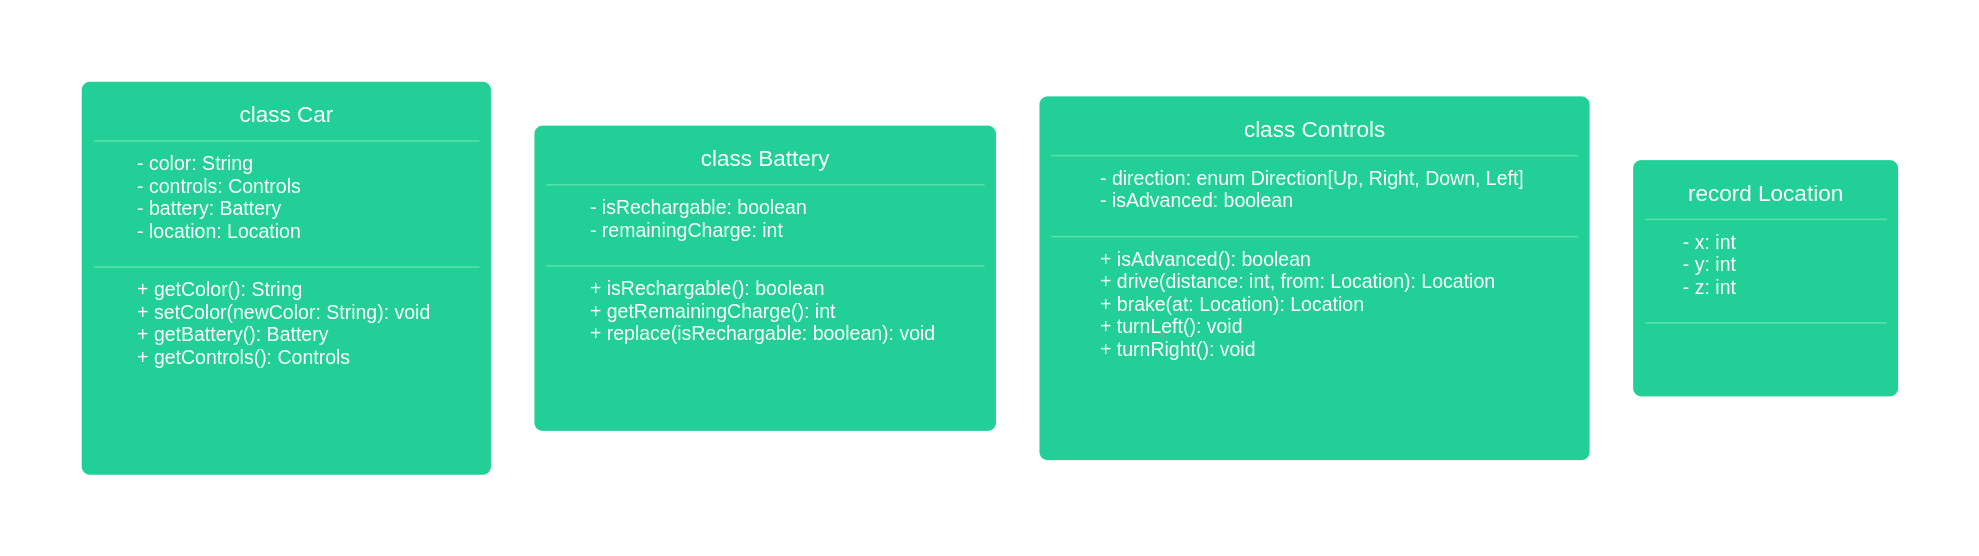
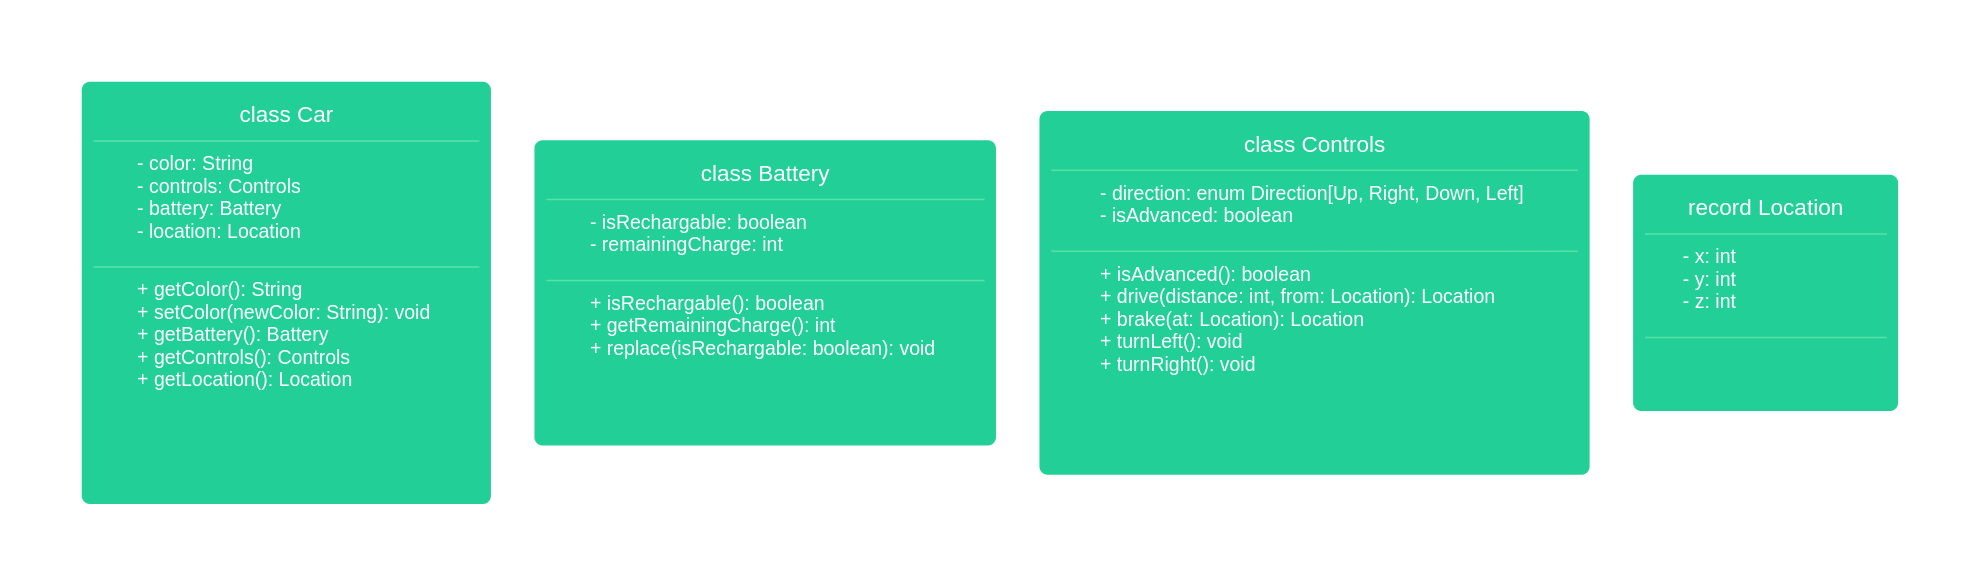
Finish diagram and tests

diff --git a/src/test/java/CarTest.java b/src/test/java/CarTest.java
@@ -27,4 +27,53 @@ class CarTest {
     Car car = new Car("green", new Battery(false), new Controls(true));
     Assertions.assertTrue(car.getControls().isAdvanced());
   }
+
+  @Test
+  public void testCarBatteryCharge() {
+    Car car = new Car("green", new Battery(false), new Controls(false));
+    Assertions.assertEquals(100, car.getBattery().getRemainingCharge());
+  }
+
+  @Test
+  public void testCarDrive() {
+    Car car = new Car("green", new Battery(false), new Controls(false));
+    Location start = car.getLocation();
+    car.getControls().setDirection(Direction.Right);
+    car.getControls().drive(100, car.getLocation());
+    Assertions.assertEquals(start.x + 100, car.getLocation().x);
+    Assertions.assertEquals(start.y, car.getLocation().y);
+    Assertions.assertEquals(start.z, car.getLocation().z);
+  }
+
+  @Test
+  public void testCarBrakes() {
+    Car car = new Car("green", new Battery(false), new Controls(false));
+    Location start = car.getLocation();
+    car.getControls().brake();
+    Assertions.assertFalse(car.getControls().isMoving());
+    Assertions.assertEquals(start.x, car.getLocation().x);
+    Assertions.assertEquals(start.y, car.getLocation().y);
+    Assertions.assertEquals(start.z, car.getLocation().z);
+  }
+
+  @Test
+  public void testCarTurning() {
+    Car car = new Car("green", new Battery(false), new Controls(false));
+    car.getControls().turnLeft();
+    Assertions.assertEquals(car.getControls().getDirection(), Direction.Left);
+    car.getControls().turnLeft();
+    Assertions.assertEquals(car.getControls().getDirection(), Direction.Down);
+    car.getControls().turnRight();
+    Assertions.assertEquals(car.getControls().getDirection(), Direction.Left);
+  }
+
+  @Test
+  public void testCarReplaceBattery() {
+    Battery oldBattery = new Battery(false);
+    Battery newBattery = new Battery(false);
+    Car car = new Car("green", oldBattery, new Controls(false));
+    Assertions.assertEquals(car.getBattery(), oldBattery);
+    car.replaceBattery(newBattery);
+    Assertions.assertEquals(car.getBattery(), newBattery);
+  }
 }
